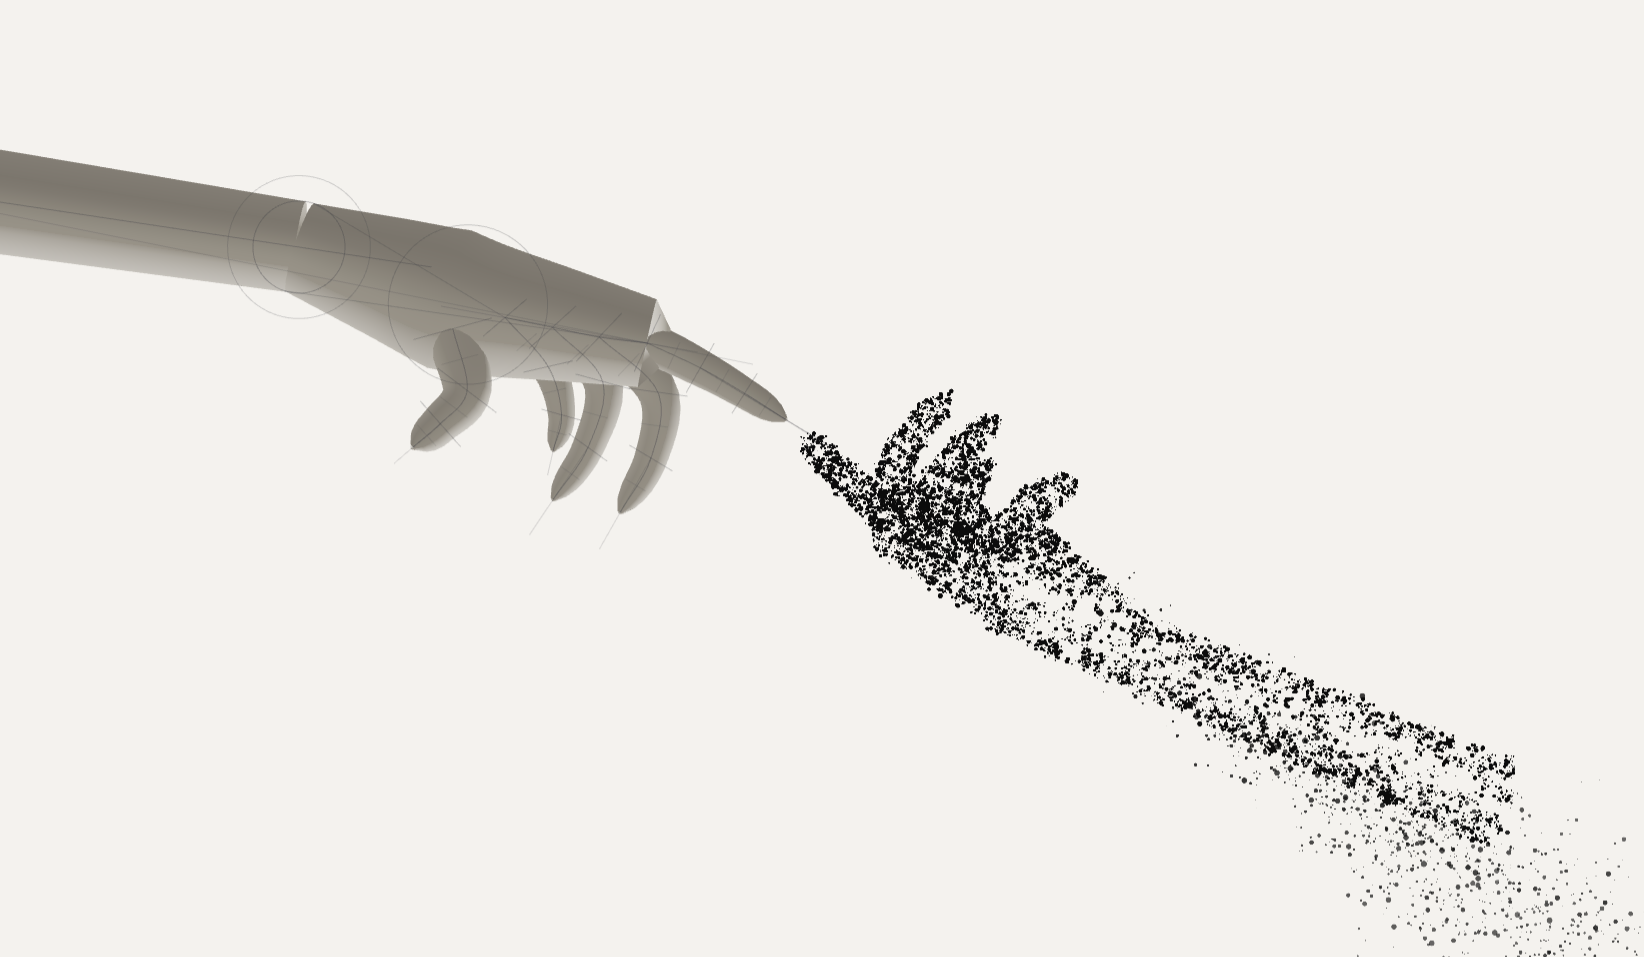
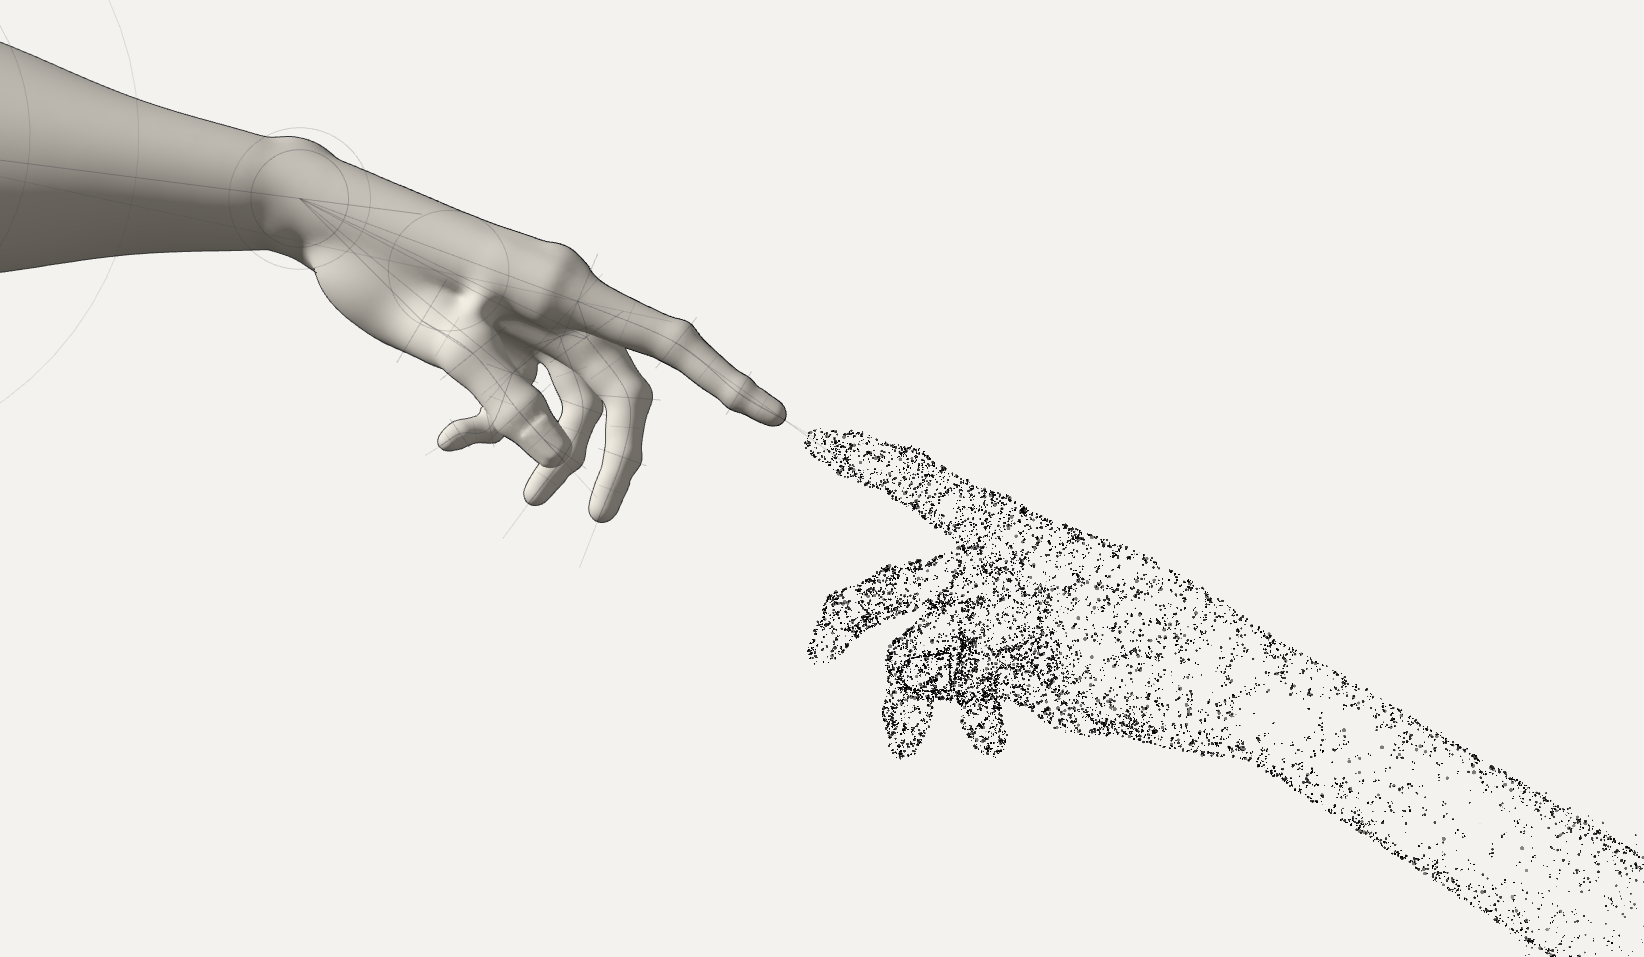
step 5: review §E-3 screenshot sets; lighter nail trace
scripts/capture-qa.mjs also saves the three view modes at 1644 x 957 into
outputs/qa/views/ (silhouette from a ?tier=low load, solid without lines,
full), and can run headless (ALPHA_HEADLESS=1). Startup key frames 0-100 %,
home, and the pointer disturbance / recovery pair re-captured on the
calibrated hands (SwiftShader Chromium; no frame times).

The nail trace was too heavy at 1x against the drawing's thin grey D:
1.6 % of the budget (was 2 %), sizes 0.7-1.0 (was 0.8-1.2), tone 0.9.
Playwright 10 / 10.

Claude-Session: https://claude.ai/code/session_01J2Ndu8pkwj4qePsjsqBCBU

Changed region(s): [[0.0, 0.0303, 1.0, 1.0]]

diff --git a/src/hand/sampling.ts b/src/hand/sampling.ts
@@ -57,13 +57,14 @@ const HAND_SHARE = 0.86;
 
 /**
  * Share of the budget laid along the nail outlines, taken from the hand's share:
- * about 1.6 points per reference px of the right thumbnail's outline at the
- * medium tier (12 000 particles, 152 px of outline), so the D reads as a dotted
- * line over the fingertip's own density.
+ * about 1.3 points per reference px of the right thumbnail's outline at the
+ * medium tier (12 000 particles, 152 px of outline). The drawing's D is a thin
+ * grey stroke, so the points are small and a little light; the cleared plate
+ * inside (NAIL_INSIDE_WEIGHT) is what lets it read.
  */
-const NAIL_SHARE = 0.02;
-/** Nail-outline point sizes: the upper half of the smallest tier and the start of the next. */
-const NAIL_SIZE = { min: 0.8, max: 1.2 };
+const NAIL_SHARE = 0.016;
+const NAIL_SIZE = { min: 0.7, max: 1.0 };
+const NAIL_TONE = 0.9;
 /** Nail-outline points: jitter across the line (world) and lift off the surface. */
 const NAIL_JITTER = 0.0012;
 const NAIL_LIFT = 0.0015;
@@ -188,8 +189,8 @@ export function sampleParticleHand(
   }
 
   // Nail outlines: evenly spaced along the visible runs by arc length, each point
-  // jittered along and across the line, dark and mid-small; marked as rim so
-  // their breathing is damped like the silhouette's.
+  // jittered along and across the line, small and a little light; marked as rim
+  // so their breathing is damped like the silhouette's.
   const total = runs.reduce((a, r) => a + r.length, 0);
   for (let k = 0; i < handCount; i++, k++) {
     const at = ((k + 0.5 + (rng() - 0.5) * 0.6) / nailCount) * total;
@@ -200,7 +201,7 @@ export function sampleParticleHand(
     home[i * 3 + 1] = pos.y + side.y * across + nrm.y * NAIL_LIFT;
     home[i * 3 + 2] = pos.z + side.z * across + nrm.z * NAIL_LIFT;
     size[i] = NAIL_SIZE.min + (NAIL_SIZE.max - NAIL_SIZE.min) * rng();
-    tone[i] = TIERS[0].tone;
+    tone[i] = NAIL_TONE;
     id[i] = i;
     dissolve[i] = 0;
     rimOut[i] = 1;
